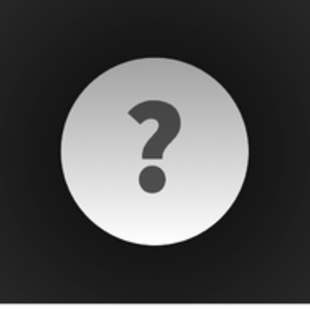
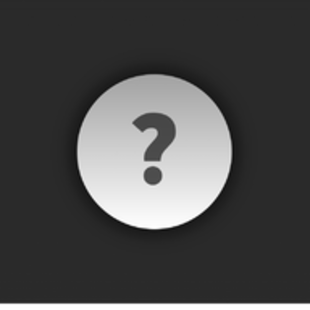
Add files via upload

diff --git a/index.html b/index.html
@@ -6,22 +6,22 @@
     <meta charset="utf-8">
     <meta http-equiv="X-UA-Compatible" content="IE=edge">
     <meta name="viewport" content="width=device-width,initial-scale=1,viewport-fit=cover">
-    <link rel="apple-touch-icon" sizes="57x57" href="/apple-icon-57x57.png">
-    <link rel="apple-touch-icon" sizes="60x60" href="/apple-icon-60x60.png">
-    <link rel="apple-touch-icon" sizes="72x72" href="/apple-icon-72x72.png">
-    <link rel="apple-touch-icon" sizes="76x76" href="/apple-icon-76x76.png">
-    <link rel="apple-touch-icon" sizes="114x114" href="/apple-icon-114x114.png">
-    <link rel="apple-touch-icon" sizes="120x120" href="/apple-icon-120x120.png">
-    <link rel="apple-touch-icon" sizes="144x144" href="/apple-icon-144x144.png">
-    <link rel="apple-touch-icon" sizes="152x152" href="/apple-icon-152x152.png">
-    <link rel="apple-touch-icon" sizes="180x180" href="/apple-icon-180x180.png">
-    <link rel="icon" type="image/png" sizes="192x192"  href="/android-icon-192x192.png">
-    <link rel="icon" type="image/png" sizes="32x32" href="/favicon-32x32.png">
-    <link rel="icon" type="image/png" sizes="96x96" href="/favicon-96x96.png">
-    <link rel="icon" type="image/png" sizes="16x16" href="/favicon-16x16.png">
+    <link rel="apple-touch-icon" sizes="57x57" href="apple-icon-57x57.png">
+    <link rel="apple-touch-icon" sizes="60x60" href="apple-icon-60x60.png">
+    <link rel="apple-touch-icon" sizes="72x72" href="apple-icon-72x72.png">
+    <link rel="apple-touch-icon" sizes="76x76" href="apple-icon-76x76.png">
+    <link rel="apple-touch-icon" sizes="114x114" href="apple-icon-114x114.png">
+    <link rel="apple-touch-icon" sizes="120x120" href="apple-icon-120x120.png">
+    <link rel="apple-touch-icon" sizes="144x144" href="apple-icon-144x144.png">
+    <link rel="apple-touch-icon" sizes="152x152" href="apple-icon-152x152.png">
+    <link rel="apple-touch-icon" sizes="180x180" href="apple-icon-180x180.png">
+    <link rel="icon" type="image/png" sizes="192x192"  href="android-icon-192x192.png">
+    <link rel="icon" type="image/png" sizes="32x32" href="favicon-32x32.png">
+    <link rel="icon" type="image/png" sizes="96x96" href="favicon-96x96.png">
+    <link rel="icon" type="image/png" sizes="16x16" href="favicon-16x16.png">
     <link rel="manifest" href="/manifest.json">
     <meta name="msapplication-TileColor" content="#ffffff">
-    <meta name="msapplication-TileImage" content="/ms-icon-144x144.png">
+    <meta name="msapplication-TileImage" content="ms-icon-144x144.png">
     <meta name="theme-color" content="#ffffff">
     <script
   src="https://code.jquery.com/jquery-1.12.4.min.js"
@@ -63,7 +63,7 @@
             background-image: -webkit-linear-gradient(top, #a1a1a1, #fff);
             background-image: linear-gradient(top, #a1a1a1, #fff);
             border-radius: 50%;
-            box-shadow: 0 0px 543px 73px rgba(0, 0, 0, .6);
+            box-shadow: 0 0px 25px 7px rgba(0, 0, 0, .6);
             float: left;
             height: 200px;
             position: relative;
@@ -79,7 +79,7 @@
             color: #e9e6e4;
             content: "";
             display: block;
-            height: 55%;
+            height: 51%;
         }
 
         .cross:after {
@@ -90,11 +90,11 @@
             opacity: 0.8;
         }
 
-        .button:hover {
+/*        .button:hover {
             background-image: -webkit-linear-gradient(top, #fff, #f4f1ee);
             background-image: linear-gradient(top, #fff, #f4f1ee);
             color: #0088cc;
-        }
+        }*/
 
         .cross:hover:after {
             opacity: 1;
@@ -104,7 +104,7 @@
             transform: scale(0.9);
 /*            background-image: -webkit-linear-gradient(top, #d4d4d4, #f7f4f4);
             background-image: linear-gradient(top, #d4d4d4, #f7f4f4);*/
-            box-shadow: 0px 0px 42px 12px rgba(0, 0, 0);
+            box-shadow: 0px 0px 12px 0px rgba(0, 0, 0);
             transition: all .1s;        
         }
 
